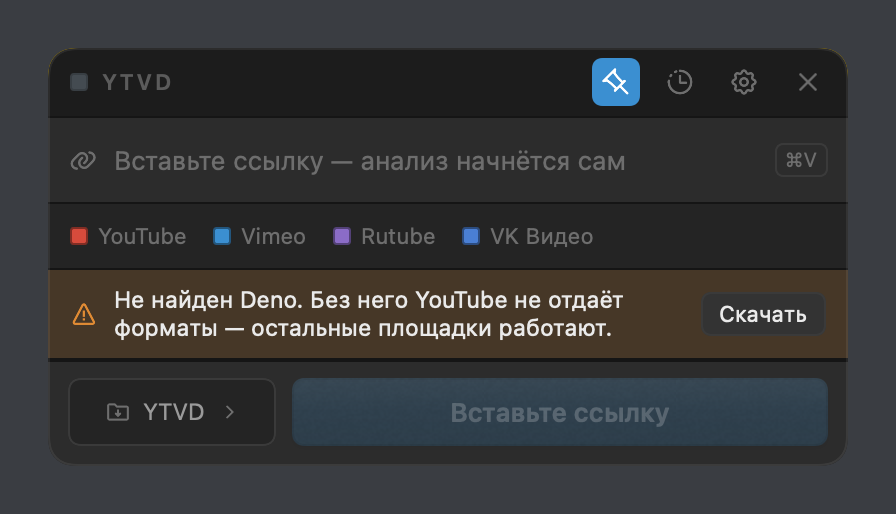
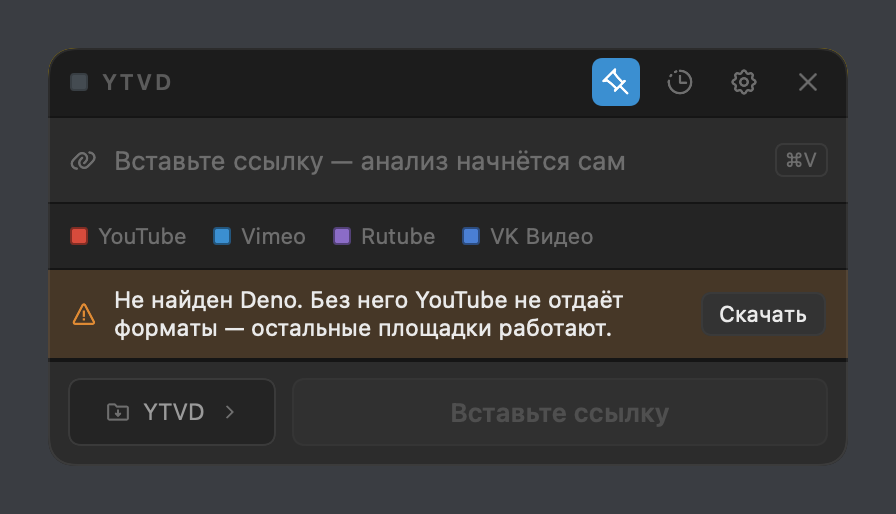
1.2.1: нажатия по иконкам, читаемая кнопка в светлой теме, честная причина отказа обновлений
Крестик в строке ссылки не нажимался. Причина: иконки рисуются через Canvas
с allowsHitTesting(false), и у кнопки, где кроме иконки ничего нет, не было
кликабельной области вовсе. Логотип работал, потому что рядом с квадратом
есть текст. Задал область явно через contentShape — это же чинит и кнопки
в шапке, которые до сих пор ловили нажатие только по подсвеченной подложке.

Выключенная кнопка «Вставьте ссылку» в светлой теме была нечитаемой: блёклый
синий на светлом фоне съедал белую подпись. Теперь она нейтрально-серая
с приглушённым текстом.

Проверка обновлений сообщала «не удалось прочитать список выпусков», хотя дело
не в разборе ответа: GitHub отвечает 404 на запросы к закрытому репозиторию
без авторизации. Приложение теперь распознаёт этот код и говорит по делу.

Changed region(s): [[0.3125, 0.716, 0.9375, 0.8716]]

diff --git a/YTVD/Sources/YTVDCore/Views/RootView.swift b/YTVD/Sources/YTVDCore/Views/RootView.swift
@@ -160,8 +160,11 @@ public struct RootView: View {
             } else if !model.urlText.isEmpty {
                 // Тот же сброс, что и по нажатию на логотип.
                 Button { model.reset() } label: {
-                    IconView(.close, size: 12, lineWidth: 2).foregroundStyle(Theme.muted)
-                        .frame(width: 20, height: 20)
+                    IconView(.close, size: 12, lineWidth: 2)
+                        .foregroundStyle(Theme.muted)
+                        .frame(width: 22, height: 22)
+                        // Сама иконка нажатий не принимает — задаём область явно.
+                        .contentShape(Rectangle())
                 }
                 .buttonStyle(.plain)
                 .help("Очистить")
@@ -442,12 +445,19 @@ struct PrimaryButton: View {
                 if let icon { IconView(icon, size: 15, lineWidth: 2) }
                 Text(title).font(Theme.Font.button).lineLimit(1)
             }
-            .foregroundStyle(style == .filled ? Color.white : Theme.text)
+            .foregroundStyle(!enabled ? Theme.muted : (style == .filled ? Color.white : Theme.text))
             .frame(maxWidth: .infinity)
             .frame(height: 34)
             .background {
-                if style == .filled {
+                if style == .filled && enabled {
                     BlockBackground(color: Theme.blue, radius: 6)
+                } else if style == .filled {
+                    // Неактивную кнопку красим нейтрально: приглушённый синий
+                    // на светлом фоне сливается и подпись пропадает.
+                    RoundedRectangle(cornerRadius: 6, style: .continuous)
+                        .fill(Theme.bg3)
+                        .overlay(RoundedRectangle(cornerRadius: 6, style: .continuous)
+                            .strokeBorder(Theme.hair, lineWidth: 1))
                 } else {
                     RoundedRectangle(cornerRadius: 6, style: .continuous)
                         .fill(Theme.bg3)
@@ -456,7 +466,6 @@ struct PrimaryButton: View {
                 }
             }
             .brightness(hovering && enabled ? 0.07 : 0)
-            .opacity(enabled ? 1 : 0.4)
         }
         .buttonStyle(.plain)
         .disabled(!enabled)

diff --git a/YTVD/Sources/YTVDCore/Services/AppUpdater.swift b/YTVD/Sources/YTVDCore/Services/AppUpdater.swift
@@ -25,7 +25,14 @@ public enum AppUpdater {
         request.timeoutInterval = 20
         request.setValue("application/vnd.github+json", forHTTPHeaderField: "Accept")
 
-        let (data, _) = try await URLSession.shared.data(for: request)
+        let (data, response) = try await URLSession.shared.data(for: request)
+
+        // Закрытый репозиторий отвечает 404 всем, кто не авторизован, — а приложение
+        // авторизоваться не может и не должно. Говорим об этом прямо.
+        if let http = response as? HTTPURLResponse, http.statusCode == 404 || http.statusCode == 403 {
+            throw YTVDError.network("Репозиторий закрыт — проверка обновлений через него "
+                                  + "недоступна. Сделайте его публичным на GitHub.")
+        }
 
         struct Asset: Decodable { let name: String; let browser_download_url: String }
         struct Release: Decodable {

diff --git a/YTVD/Sources/YTVDCore/Views/IconView.swift b/YTVD/Sources/YTVDCore/Views/IconView.swift
@@ -79,6 +79,8 @@ public struct IconButton: View {
                     RoundedRectangle(cornerRadius: 5, style: .continuous)
                         .fill(active ? Theme.blue : (hovering ? Theme.bg3 : .clear))
                 )
+                // Прозрачная подложка нажатий не принимает — задаём область явно.
+                .contentShape(Rectangle())
         }
         .buttonStyle(.plain)
         .onHover { hovering = $0 }
